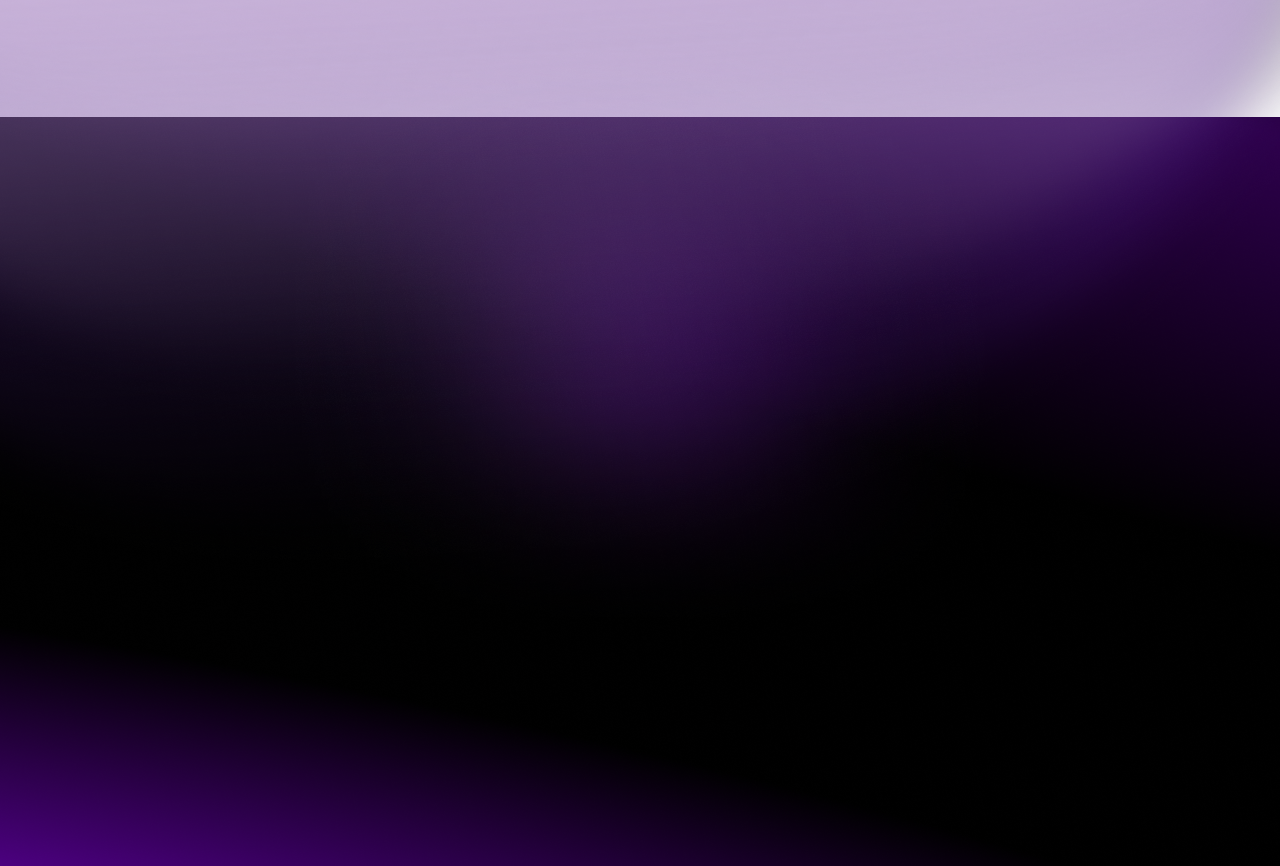
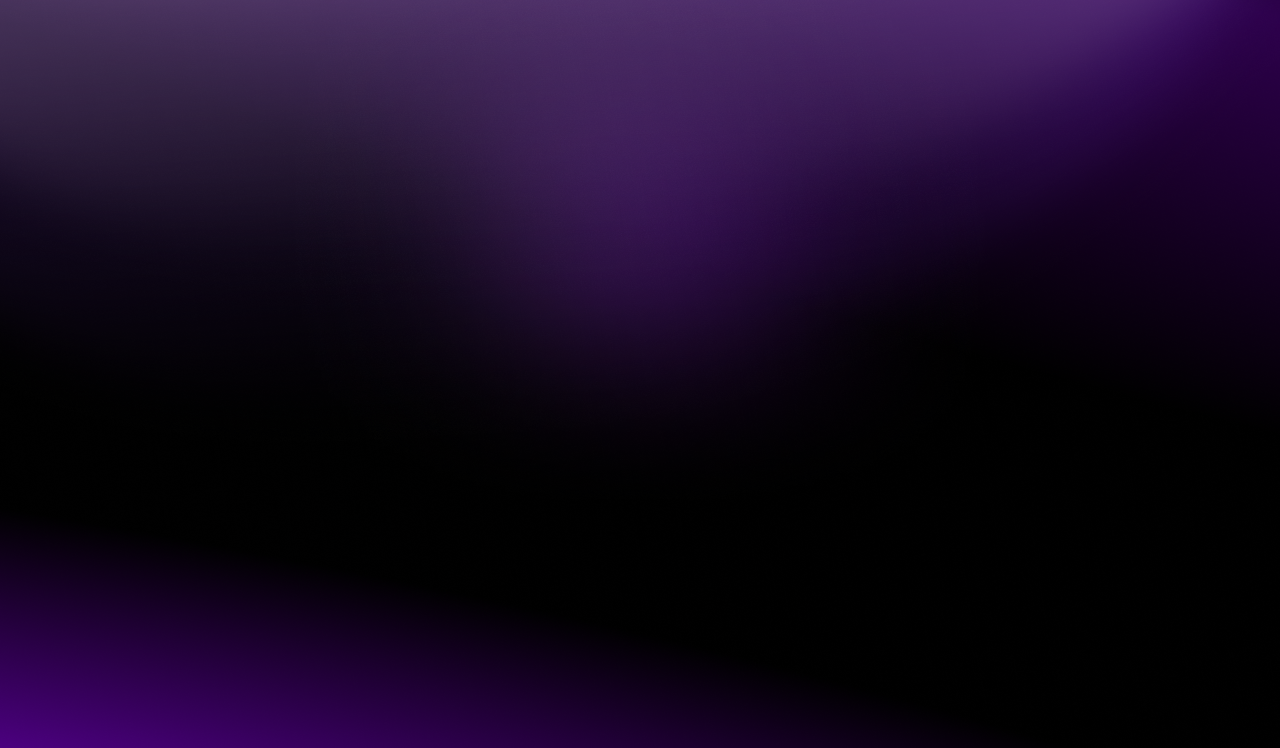
fix: fonts google

Changed region(s): [[0.0, 0.0, 1.0, 0.4612], [0.0, 0.1845, 0.125, 0.3382], [0.4375, 0.4305, 0.5625, 0.492]]

diff --git a/src/components/sections/MissionSection.tsx b/src/components/sections/MissionSection.tsx
@@ -15,43 +15,43 @@ interface MissionProps {
 export function MissionSection({ dict }: MissionProps) {
   return (
     <section>
-      <div className="bg-gradient-to-t from-[#1C012B] via-black to-[#5b0b8dad] text-white px-6 py-24 md:px-20 ">
-        <h2 className="text-3xl md:text-4xl font-bold text-center mb-6">
-          {dict.title}
-        </h2>
-        <p className="text-center text-white/80 max-w-3xl mx-auto mb-16 text-sm md:text-base">
-          {dict.description}
-        </p>
+      <div className="bg-[url('/images/background-mission.png')] bg-no-repeat bg-center bg-cover text-white px-6 py-26 md:px-20 space-y-20">
+        <div className="space-y-5">
+          <h2 className="text-4xl md:text-5xl font-bold text-center">
+            {dict.title}
+          </h2>
+          <p className="text-center text-white/80 max-w-3xl mx-auto text-base">
+            {dict.description}
+          </p>
+        </div>
 
         <div className="flex flex-col lg:flex-row justify-center gap-16 lg:gap-36 w-full">
-          <div className="flex gap-4 items-start max-w-[459px]">
-            <Image
-              src="/svg/icon-problem.svg"
-              alt="Problem"
-              width={64}
-              height={64}
-            />
-            <div>
-              <h3 className="font-semibold text-lg mb-2">
-                {dict.problemTitle}
-              </h3>
-              <p className="text-sm text-white/80">{dict.problemText}</p>
+          <div className="space-y-5 w-2/5">
+            <div className="flex gap-4 items-center">
+              <Image
+                src="/svg/icon-problem.svg"
+                alt="Problem"
+                width={64}
+                height={64}
+              />
+
+              <h3 className="font-semibold text-2xl">{dict.problemTitle}</h3>
             </div>
+            <p className="text-sm text-white/80">{dict.problemText}</p>
           </div>
 
-          <div className="flex gap-4 items-start max-w-[459px]">
-            <Image
-              src="/svg/icon-difference.svg"
-              alt="Difference"
-              width={64}
-              height={64}
-            />
-            <div>
-              <h3 className="font-semibold text-lg mb-2">
-                {dict.differenceTitle}
-              </h3>
-              <p className="text-sm text-white/80">{dict.differenceText}</p>
+          <div className="space-y-5 w-2/5">
+            <div className="flex gap-4 items-center">
+              <Image
+                src="/svg/icon-difference.svg"
+                alt="Difference"
+                width={64}
+                height={64}
+              />
+
+              <h3 className="font-semibold text-2xl">{dict.differenceTitle}</h3>
             </div>
+            <p className="text-sm text-white/80">{dict.differenceText}</p>
           </div>
         </div>
       </div>

diff --git a/src/components/sections/FocusdSectors.tsx b/src/components/sections/FocusdSectors.tsx
@@ -42,11 +42,11 @@ export function FocusedSectorsSection({ dict }: FocusedSectorsSectionProps) {
           alt="user"
         />
         <div className="w-full lg:w-[50%]">
-          <p className="text-xs tracking-widest text-white/60 mb-2 uppercase">
+          <h3 className="text-[22px] text-white/60 mb-2 uppercase tracking-[6px]">
             {dict.sectionTitle}
-          </p>
+          </h3>
 
-          <h2 className="text-3xl font-bold mb-6 leading-tight">
+          <h2 className="text-4xl md:text-5xl font-bold mb-6 leading-tight">
             {dict.sectionSubtitle}
           </h2>
 
@@ -93,9 +93,7 @@ export function FocusedSectorsSection({ dict }: FocusedSectorsSectionProps) {
                           />
                         )}
                       </div>
-                      <span className="font-semibold text-base">
-                        {sector.title}
-                      </span>
+                      <h4 className="font-semibold text-2xl">{sector.title}</h4>
                     </div>
                     {isOpen ? <ChevronUp /> : <ChevronDown />}
                   </button>
@@ -107,9 +105,11 @@ export function FocusedSectorsSection({ dict }: FocusedSectorsSectionProps) {
                         {idx === 1 && dict.platformHelpFinancialServices}
                         {idx === 2 && dict.platformHelpLegalServices}
                       </p>
-                      <ul className="list-decimal list-inside text-sm space-y-1">
+                      <ul className="list-decimal list-inside text-sm space-y-4">
                         {sector.description.map((text, i) => (
-                          <li key={i}>{text}</li>
+                          <li key={i} className="text-base">
+                            {text}
+                          </li>
                         ))}
                       </ul>
                     </div>

diff --git a/src/components/layout/SoluctionCard.tsx b/src/components/layout/SoluctionCard.tsx
@@ -7,23 +7,14 @@ interface SolutionCardProps {
 
 export function SolutionCard({ title, description, icon }: SolutionCardProps) {
   return (
-    <div className="relative flex flex-col justify-between h-[435px] px-6 py-8 rounded-2xl shadow-xl overflow-hidden bg-gradient-to-br from-[#3B1554]/60 to-[#1B102B]/70 backdrop-blur-sm bg-white/30 border border-white/10 hover:scale-[1.01] transition border-gradient">
+    <div className="relative flex flex-col justify-between h-[435px] px-6 py-8 rounded-2xl shadow-xl overflow-hidden bg-gradient-to-br from-[#3B1554]/60 to-[#1B102B]/70 backdrop-blur-sm bg-white/37 border border-white/10 lg:hover:scale-[1.01] lg:transition border-gradient">
       {/* Ícone decorativo ao fundo */}
-      <div className="absolute top-4 right-4 w-[180px] h-[180px] opacity-100">
-        {icon}
-      </div>
+      <div className="absolute top-4 right-4 w-[180px] h-[180px]">{icon}</div>
 
-      {/* Conteúdo */}
-      <div className="relative z-10">
-        <h3 className="text-white mb-4 text-3xl">{title}</h3>
-      </div>
+      <h3 className="text-white mb-4 text-3xl md:text-[32px]">{title}</h3>
 
-      {/* Botão */}
-      <div className="relative z-10 mt-6 flex justify-between items-end">
-        <p className="text-sm text-white/90 leading-relaxed">{description}</p>
-        {/* <button className="w-[58px] h-[58px] bg-white text-black rounded-full flex items-center justify-center text-lg font-bold hover:scale-110 transition">
-          →
-        </button> */}
+      <div className="mt-6 flex justify-between items-end">
+        <p className="text-base text-white">{description}</p>
       </div>
     </div>
   );

diff --git a/src/components/layout/cardFounders.tsx b/src/components/layout/cardFounders.tsx
@@ -14,7 +14,7 @@ export const FounderCard = ({
   imageSrc,
 }: FounderCardProps) => {
   return (
-    <div className="p-6 rounded-2xl flex flex-col md:flex-row gap-16 items-center w-full backdrop-blur-sm bg-white/20">
+    <div className="p-6 rounded-2xl flex flex-col md:flex-row gap-5 lg:gap-16 items-center w-full backdrop-blur-sm bg-white/20">
       <div className="w-[272px] min-w-[272px] h-[334px] aspect-square overflow-hidden rounded-xl bg-gray-700">
         <Image
           src={imageSrc}
@@ -24,14 +24,14 @@ export const FounderCard = ({
           className="object-cover w-full h-full"
         />
       </div>
-      <div className="flex flex-col justify-between items-baseline text-white text-sm h-[334px]">
-        <div className="flex items-center justify-between w-full">
-          <h3 className="text-xl font-semibold mb-2 text-white">{name}</h3>
-          <span className="text-xs max-w-52 w-full py-3 rounded-2xl border border-white text-white text-center font-semibold">
+      <div className="flex flex-col justify-between items-baseline space-y-5 text-white text-sm lg:h-[334px]">
+        <div className="flex items-center justify-between flex-wrap gap-5 md:gap-0 w-full">
+          <h3 className="text-[32px] font-bold mb-2 text-white">{name}</h3>
+          <span className="text-xl max-w-60 w-full py-3 rounded-2xl border border-white text-white text-center font-semibold">
             {title}
           </span>
         </div>
-        <p className="text-white/80 leading-relaxed text-sm">{bio}</p>
+        <p className="text-white/80 leading-relaxed text-xl">{bio}</p>
       </div>
     </div>
   );

diff --git a/src/components/sections/CaseStudySection.tsx b/src/components/sections/CaseStudySection.tsx
@@ -1,5 +1,6 @@
 "use client";
 import React from "react";
+import "./styles.css";
 
 interface CaseStudyChartProps {
   dict: {
@@ -11,14 +12,14 @@ interface CaseStudyChartProps {
 export const CaseStudyChart = ({ dict }: CaseStudyChartProps) => {
   return (
     <section className="bg-black text-white py-12 flex flex-col lg:flex-row lg:items-end bg-[url('/images/sections-graph-background.png')] bg-bottom lg:bg-right bg-no-repeat h-96 lg:h-[634px] px-8 md:px-24">
-      <div className="w-full flex flex-col-reverse gap-20 md:gap-0 md:flex-row justify-between items-center px-6 md:px-0">
-        <div className="bg-[url('/images/sections-graph.png')] bg-contain bg-no-repeat h-48 lg:h-[229px] max-w-[578px] w-full" />
+      <div className="w-full flex flex-col-reverse gap-20 md:gap-0 md:flex-row justify-between items-center">
+        <div className="bg-[url('/images/sections-graph.png')] bg-contain bg-no-repeat h-48 lg:h-[229px] max-w-[578px] w-full mobile" />
 
-        <div className="max-w-60 text-center lg:text-end">
-          <h6 className="text-sm font-semibold text-gray-400 uppercase mb-2">
+        <div className="md:max-w-96 text-center lg:text-end">
+          <p className="text-2xl text-gray-400 uppercase mb-2 tracking-[6px]">
             {dict.label}
-          </h6>
-          <h2 className="text-3xl font-bold">{dict.title}</h2>
+          </p>
+          <h2 className="text-4xl md:text-5xl font-bold">{dict.title}</h2>
         </div>
       </div>
     </section>

diff --git a/src/components/sections/Hero.tsx b/src/components/sections/Hero.tsx
@@ -1,5 +1,6 @@
 import Image from "next/image";
 import Logo from "../../../public/logo-actai.svg";
+import Link from "next/link";
 interface HeroProps {
   title: string;
   buttonLabel: string;
@@ -10,15 +11,15 @@ export function Hero({ title, buttonLabel }: HeroProps) {
     <section className="relative bg-black text-white py-32 flex flex-col items-center md:items-start text-center md:text-start overflow-hidden bg-[url('/images/Hero.png')] bg-no-repeat bg-cover px-8 md:px-24">
       <div className="relative z-10 max-w-3xl ml-0">
         <Image src={Logo} alt="logo da imagem" width={257} height={54} />
-        <h1 className="text-4xl md:text-5xl font-extrabold leading-tight mb-14 mt-6 bg-gradient-to-r from-[#999999] via-[#CCCCCC] to-[#FFFFFF] bg-clip-text text-transparent ">
+        <h1 className="text-xl md:text-5xl font-extrabold leading-tight mb-14 mt-6 bg-gradient-to-r from-[#999999] via-[#CCCCCC] to-[#FFFFFF] bg-clip-text text-transparent font-title">
           {title}
         </h1>
-        <a
+        <Link
           href="#"
-          className="inline-block bg-white text-black px-12 py-4 rounded-2xl font-medium text-sm hover:brightness-105 hover:opacity-90 transition"
+          className="inline-block bg-white text-black px-12 py-4 rounded-2xl font-medium text-xl hover:brightness-105 hover:opacity-90 transition"
         >
           {buttonLabel}
-        </a>
+        </Link>
       </div>
     </section>
   );

diff --git a/src/app/layout.tsx b/src/app/layout.tsx
@@ -1,15 +1,17 @@
 import type { Metadata } from "next";
-import { Geist, Geist_Mono } from "next/font/google";
+import { Inter, Ubuntu } from "next/font/google";
 import "./globals.css";
 
-const geistSans = Geist({
-  variable: "--font-geist-sans",
+// Fontes do projeto
+const inter = Inter({
   subsets: ["latin"],
+  variable: "--font-inter",
 });
 
-const geistMono = Geist_Mono({
-  variable: "--font-geist-mono",
+const ubuntu = Ubuntu({
   subsets: ["latin"],
+  variable: "--font-ubuntu",
+  weight: ["400", "500", "700"],
 });
 
 export const metadata: Metadata = {
@@ -23,12 +25,8 @@ export default function RootLayout({
   children: React.ReactNode;
 }>) {
   return (
-    <html lang="en">
-      <body
-        className={`${geistSans.variable} ${geistMono.variable} antialiased`}
-      >
-        {children}
-      </body>
+    <html lang="en" className={`${inter.variable} ${ubuntu.variable}`}>
+      <body className="antialiased">{children}</body>
     </html>
   );
 }

diff --git a/src/app/[lang]/layout.tsx b/src/app/[lang]/layout.tsx
@@ -1,6 +1,20 @@
 import { Header } from "@/components/layout/header";
 import { getDictionary } from "./dictionaries";
 import { Footer } from "@/components/layout/footer";
+import { Inter, Ubuntu } from "next/font/google";
+import ".././globals.css";
+
+// Fontes do projeto
+const inter = Inter({
+  subsets: ["latin"],
+  variable: "--font-inter",
+});
+
+const ubuntu = Ubuntu({
+  subsets: ["latin"],
+  variable: "--font-ubuntu",
+  weight: ["400", "500", "700"],
+});
 
 export async function generateStaticParams() {
   return [{ lang: "pt-br" }, { lang: "en" }];
@@ -18,9 +32,11 @@ export default async function LangLayout({
 
   return (
     <html lang={lang}>
-      <body>
+      <body className="antialiased">
         <Header dict={dict} lang={lang} />
-        <main>{children}</main>
+        <main className={`${inter.variable} ${ubuntu.variable}`}>
+          {children}
+        </main>
         <Footer dict={dict} />
       </body>
     </html>

diff --git a/src/components/sections/ContactSection.tsx b/src/components/sections/ContactSection.tsx
@@ -68,14 +68,14 @@ export function ContactSection() {
 
   return (
     <section
-      className="bg-black text-white py-20 bg-[url('/images/contact-background.png')] bg-no-repeat bg-cover px-8 md:px-24"
+      className="bg-black text-white py-20 bg-[url('/images/contact-background.png')] bg-no-repeat bg-cover px-8 md:px-24 space-y-5"
       id="contact"
     >
-      <div className="text-center">
-        <p className="uppercase text-sm tracking-widest text-white/60 mb-3">
+      <div className="text-center space-y-5">
+        <h4 className="uppercase text-[22px] tracking-[6px] text-[#B6B6B6]">
           {dict.title}
-        </p>
-        <h2 className="text-3xl font-bold mb-10">{dict.subtitle}</h2>
+        </h4>
+        <h2 className="text-4xl md:text-5xl font-bold">{dict.subtitle}</h2>
       </div>
       {/* 
       {status.sended ? (

diff --git a/src/components/layout/header/index.tsx b/src/components/layout/header/index.tsx
@@ -29,13 +29,13 @@ export function Header({ dict, lang }: NavProps) {
     : lang;
 
   return (
-    <header className="w-full bg-black py-4 flex items-center justify-between px-8 md:px-24">
+    <header className="w-full bg-black py-4 flex items-center justify-between flex-wrap px-8 md:px-24 font-sans gap-5 md:gap-0">
       {/* Logo */}
       <Link href={`/${lang}`} className="text-white font-bold text-lg">
         <Image src={Logo} alt="ACT.AI Logo" width={100} height={24} />
       </Link>
 
-      <div className="flex items-center gap-12">
+      <div className="flex items-center gap-5 md:gap-12 flex-wrap">
         <nav className="flex gap-6 text-sm text-white items-center">
           <Link
             href={`/${lang}`}

diff --git a/src/app/globals.css b/src/app/globals.css
@@ -3,13 +3,16 @@
 :root {
   --background: #ffffff;
   --foreground: #171717;
+
+  --font-sans: var(--font-inter);
+  --font-title: var(--font-ubuntu);
 }
 
 @theme inline {
   --color-background: var(--background);
   --color-foreground: var(--foreground);
-  --font-sans: var(--font-geist-sans);
-  --font-mono: var(--font-geist-mono);
+  --font-sans: var(--font-inter);
+  --font-title: var(--font-ubuntu);
 }
 
 @media (prefers-color-scheme: dark) {
@@ -22,9 +25,13 @@
 body {
   background: var(--background);
   color: var(--foreground);
-  font-family: Arial, Helvetica, sans-serif;
+  font-family: var(--font-sans);
 }
 
 html {
   scroll-behavior: smooth;
+}
+
+h1, h2, h3, h4 {
+  font-family: var(--font-ubuntu), sans-serif;
 }

diff --git a/src/components/layout/footer/index.tsx b/src/components/layout/footer/index.tsx
@@ -24,13 +24,15 @@ export const Footer = ({ dict }: FooterProps) => {
       <div className="max-w-screen-xl mx-auto grid grid-cols-1 md:grid-cols-5 gap-8">
         {/* Logo */}
         <div className="col-span-1 flex items-start">
-          <Image
-            src={Logo}
-            alt="ACT.AI Logo"
-            width={100}
-            height={24}
-            className="w-auto h-6"
-          />
+          <Link href={"/"}>
+            <Image
+              src={Logo}
+              alt="ACT.AI Logo"
+              width={100}
+              height={24}
+              className="w-auto h-6"
+            />
+          </Link>
         </div>
 
         {/* Links */}
